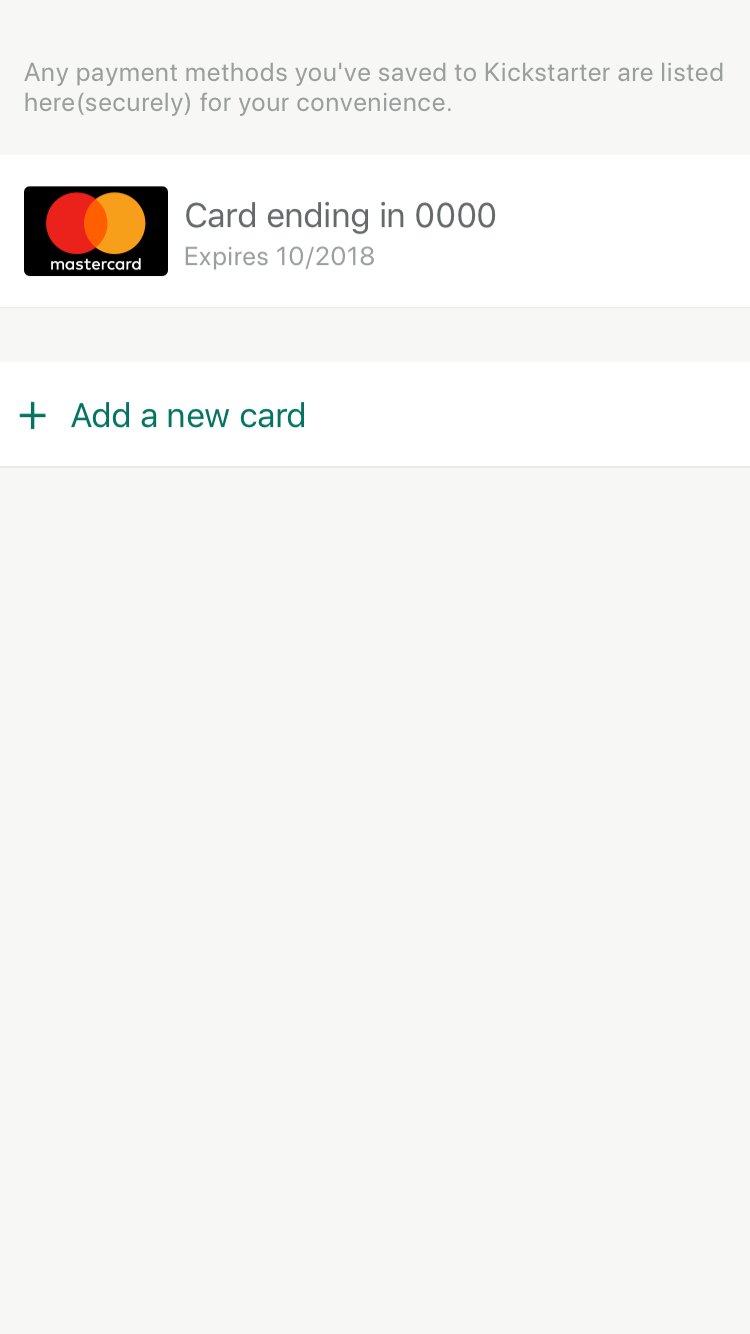
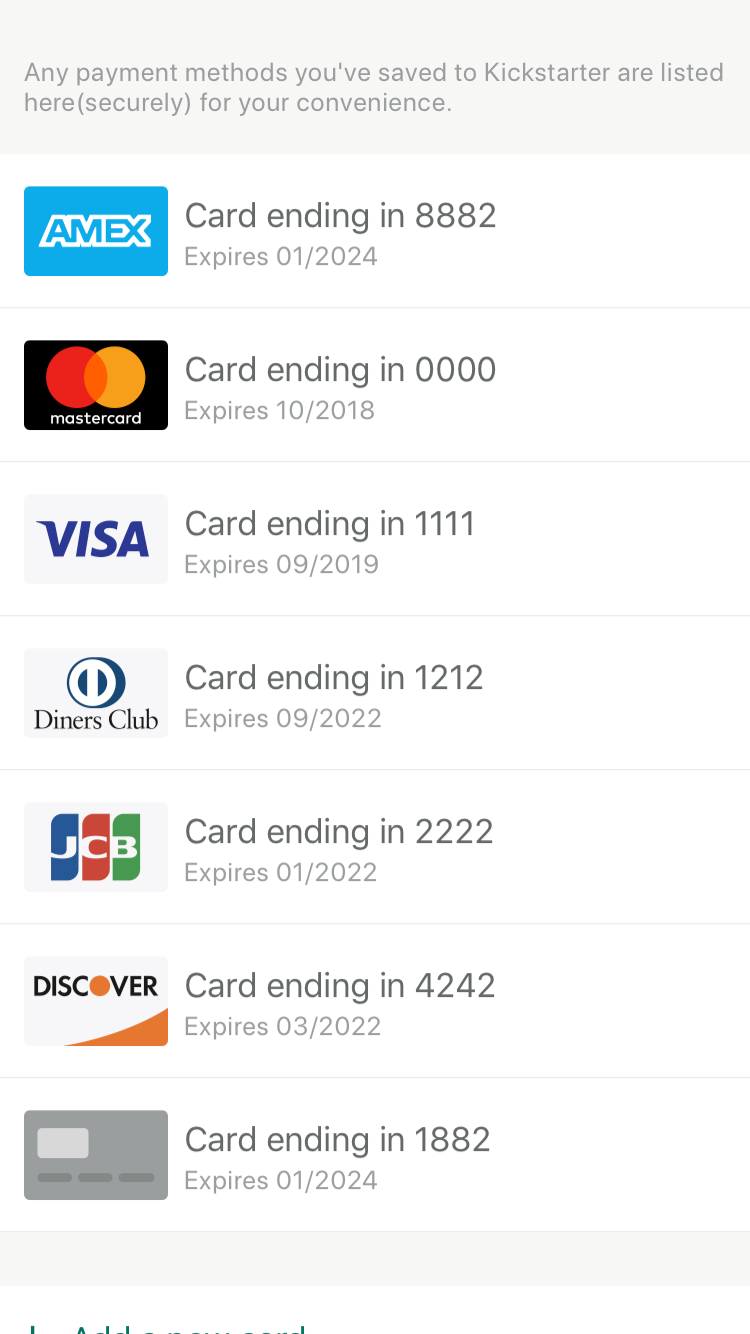
Added VC test with no cards

diff --git a/KsApi/models/templates/GraphCreditCardTemplate.swift b/KsApi/models/templates/GraphCreditCardTemplate.swift
@@ -2,9 +2,50 @@ import Foundation
 
 extension GraphUserCreditCard {
 
+  public static let masterCard = GraphUserCreditCard.CreditCard(expirationDate: "2018-10-31",
+                                                                id: "1",
+                                                                lastFour: "0000",
+                                                                type: "MASTERCARD")
+
+  public static let visa = GraphUserCreditCard.CreditCard(expirationDate: "2019-09-30",
+                                                          id: "2",
+                                                          lastFour: "1111",
+                                                          type: "VISA")
+
+  public static let diners = GraphUserCreditCard.CreditCard(expirationDate: "2022-09-01",
+                                                            id: "3",
+                                                            lastFour: "1212",
+                                                            type: "DINERS")
+
+  public static let jcb = GraphUserCreditCard.CreditCard(expirationDate: "2022-01-01",
+                                                         id: "4",
+                                                         lastFour: "2222",
+                                                         type: "JCB")
+
+  public static let discover = GraphUserCreditCard.CreditCard(expirationDate: "2022-03-12",
+                                                              id: "5",
+                                                              lastFour: "4242",
+                                                              type: "DISCOVER")
+
+  public static let amex = GraphUserCreditCard.CreditCard(expirationDate: "2024-01-12",
+                                                          id: "6",
+                                                          lastFour: "8882",
+                                                          type: "AMEX")
+
+  public static let generic = GraphUserCreditCard.CreditCard(expirationDate: "2024-01-12",
+                                                             id: "7",
+                                                             lastFour: "1882",
+                                                             type: "----")
+
   public static let template = GraphUserCreditCard(
-    storedCards: CreditCardConnection(nodes: [GraphUserCreditCard.CreditCard(expirationDate: "2018-10-31",
-                                                                             id: "1",
-                                                                             lastFour: "0000",
-                                                                             type: "MASTERCARD")]))
+    storedCards: CreditCardConnection(nodes: [GraphUserCreditCard.amex,
+                                              GraphUserCreditCard.masterCard,
+                                              GraphUserCreditCard.visa,
+                                              GraphUserCreditCard.diners,
+                                              GraphUserCreditCard.jcb,
+                                              GraphUserCreditCard.discover,
+                                              GraphUserCreditCard.generic]))
+
+  public static let emptyTemplate = GraphUserCreditCard(
+    storedCards: CreditCardConnection(nodes: []))
 }

diff --git a/KsApi/MockService.swift b/KsApi/MockService.swift
@@ -62,7 +62,7 @@ internal struct MockService: ServiceType {
   fileprivate let fetchGraphCurrencyResponse: UserCurrency?
   fileprivate let fetchGraphUserEmailResponse: GraphUserEmail?
 
-  fileprivate let fetchGraphCreditCardsResponse: UserEnvelope<GraphUserCreditCard.CreditCard>?
+  fileprivate let fetchGraphCreditCardsResponse: UserEnvelope<GraphUserCreditCard>?
   fileprivate let fetchGraphCreditCardsError: GraphError?
 
   fileprivate let addAttachmentResponse: UpdateDraft.Image?
@@ -197,7 +197,7 @@ internal struct MockService: ServiceType {
                 fetchFriendStatsError: ErrorEnvelope? = nil,
                 fetchExportStateResponse: ExportDataEnvelope? = nil,
                 fetchExportStateError: ErrorEnvelope? = nil,
-                fetchGraphCreditCardsResponse: UserEnvelope<GraphUserCreditCard.CreditCard>? = nil,
+                fetchGraphCreditCardsResponse: UserEnvelope<GraphUserCreditCard>? = nil,
                 fetchGraphCreditCardsError: GraphError? = nil,
                 exportDataError: ErrorEnvelope? = nil,
                 fetchDraftResponse: UpdateDraft? = nil,
@@ -622,7 +622,10 @@ internal struct MockService: ServiceType {
         return SignalProducer(error: error)
       }
 
-      return SignalProducer(value: UserEnvelope<GraphUserCreditCard>(me: GraphUserCreditCard.template))
+      return SignalProducer(
+        value: fetchGraphCreditCardsResponse ??
+          UserEnvelope<GraphUserCreditCard>(me: GraphUserCreditCard.template)
+      )
   }
 
   internal func fetchGraphUserEmail(query: NonEmptySet<Query>)

diff --git a/Kickstarter-iOS/Views/Controllers/PaymentMethodsViewControllerTests.swift b/Kickstarter-iOS/Views/Controllers/PaymentMethodsViewControllerTests.swift
@@ -21,10 +21,21 @@ class PaymentMethodsViewControllerTests: TestCase {
 
   func testView_WithCreditCards() {
 
-    let response = UserEnvelope<GraphUserCreditCard.CreditCard>(
-      me: GraphUserCreditCard.template.storedCards.nodes.first!
+    let response = UserEnvelope<GraphUserCreditCard>(
+      me: GraphUserCreditCard.template
     )
 
+    self.generateSnapshots(with: response)
+  }
+
+  func testView_NoCreditCards() {
+
+    let response = UserEnvelope<GraphUserCreditCard>(me: GraphUserCreditCard.emptyTemplate)
+
+    self.generateSnapshots(with: response)
+  }
+
+  private func generateSnapshots(with response: UserEnvelope<GraphUserCreditCard>) {
     combos(Language.allLanguages, [Device.phone4_7inch, Device.phone5_8inch, Device.pad]).forEach {
       (arg) in
 

diff --git a/Library/ViewModels/PaymentMethodsViewModelTests.swift b/Library/ViewModels/PaymentMethodsViewModelTests.swift
@@ -20,13 +20,12 @@ internal final class PaymentMethodsViewModelTests: TestCase {
 
     self.vm.outputs.didFetchPaymentMethods.observe(didFetchPaymentMethods.observer)
     self.vm.outputs.goToAddCardScreen.observe(goToAddCardScreen.observer)
-
   }
 
   func testPaymentMethodsFetch_OnViewDidLoad() {
 
-    let response = UserEnvelope<GraphUserCreditCard.CreditCard>(
-      me: GraphUserCreditCard.template.storedCards.nodes.first!
+    let response = UserEnvelope<GraphUserCreditCard>(
+      me: GraphUserCreditCard.template
     )
     let apiService = MockService(fetchGraphCreditCardsResponse: response)
     withEnvironment(apiService: apiService) {
